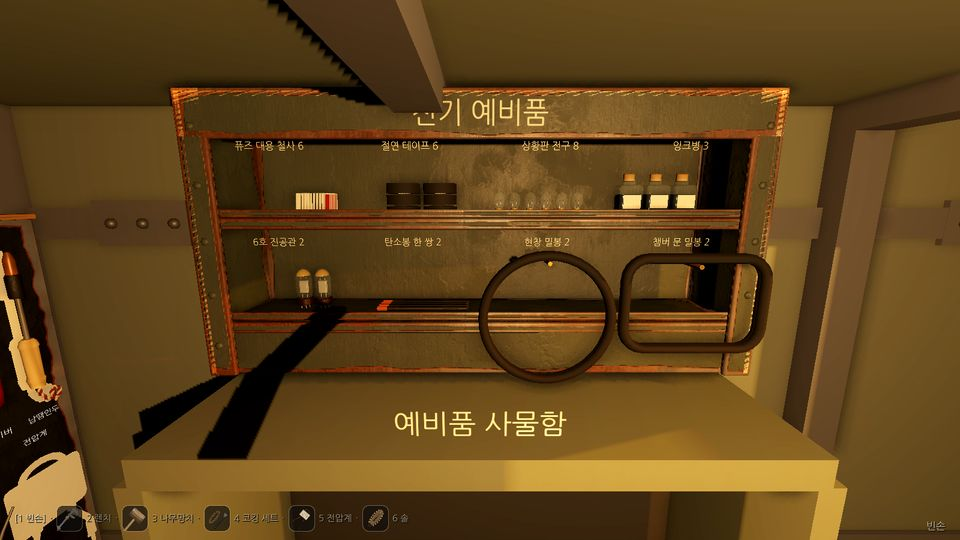
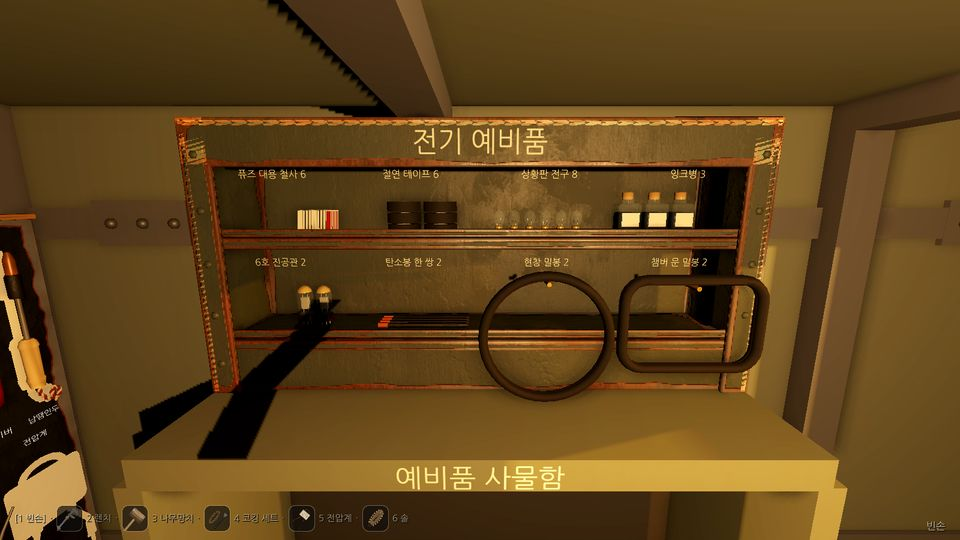
M2 보고서: 고친 벽장 화면과 마감 검토, 확인 시간
Claude-Session: https://claude.ai/code/session_01LosiMbR2j4drykWSVr7ofK

Changed region(s): [[0.1562, 0.1481, 0.8438, 0.8296], [0.4062, 0.8593, 0.5938, 0.9185], [0.1875, 0.5037, 0.2188, 0.5333]]

diff --git a/docs/reports/M2.md b/docs/reports/M2.md
@@ -110,11 +110,12 @@
 | `dotnet test` 시뮬레이션 | 1345개 통과 |
 | `dotnet test` 소리 키트 | 139개 통과 |
 | `dotnet test` 계산 도구 | 93개 통과 |
-| `tools/godot-check.sh` 기본 실행 | 통과. 헤드리스로 3분 46초 (예산 4분) |
-| `tools/godot-check.sh figures-full` | 통과. 그림 194장, 약 7분 |
+| `tools/godot-check.sh` 기본 실행 | 통과. 헤드리스로 약 3분 45초 (예산 4분) |
+| `tools/godot-check.sh figures-full` | 통과. 그림 194장을 손동작까지 다시 계산, 약 7분 |
 | 성능 (M2 데이터에서 가장 바쁜 세계) | 틱 약 36µs (기준 1ms), 스냅숏(화면에 넘기는 상태) 약 133µs (기준 0.5ms) |
 
 - Godot 확인 묶음: 위기 한 판, 위험과 손의 느낌, 손이 닿는지, 작업 시점 32곳, 데이터 장치의 손동작, 공구판과 공구띠, 지시서 화면, 계통별 훈련 손동작, 훈련 열여섯의 솔버 풀이, 계산 도구, 교범 그림.
+- 마감에서는 README와 이 보고서, 교범 00~13쪽, 작업 시점 32곳의 화면, 다시 만든 그림을 따로 검토받아 확인된 것을 고쳤다(DECISIONS의 WP23b 절).
 - WP8~WP20, WP22, WP23a, WP25, WP26은 합치기 전에 네 관점의 검토를 받고, 고친 뒤 한두 차례 더 확인했다. 기록은 [docs/reviews/](../reviews/)에 있다. WP0~WP7, WP21, WP23b는 따로 검토 기록이 없다(WP23b의 README와 이 보고서는 사실과 문장을 따로 검토받았다).
 
 ## 6. 기준 해시
